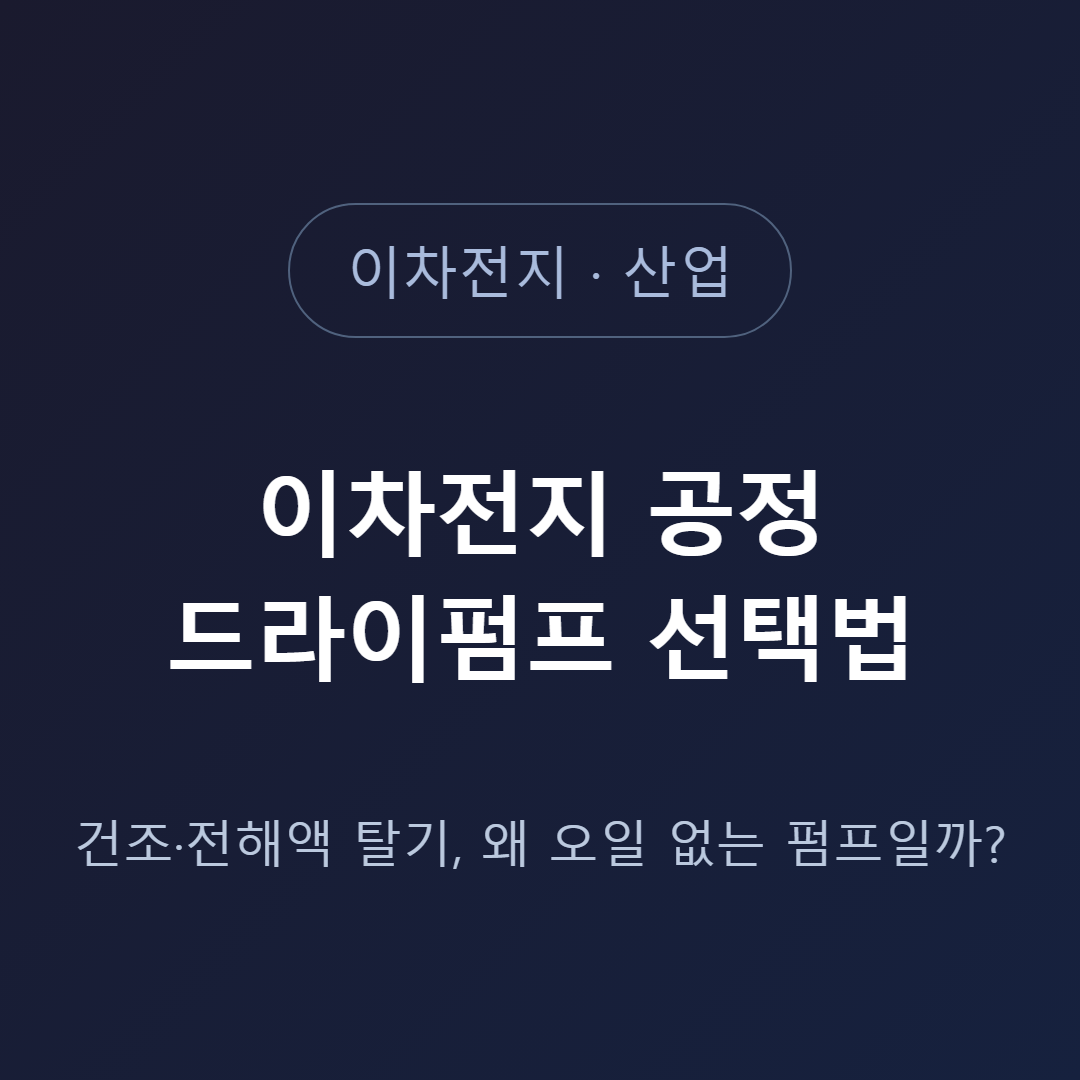
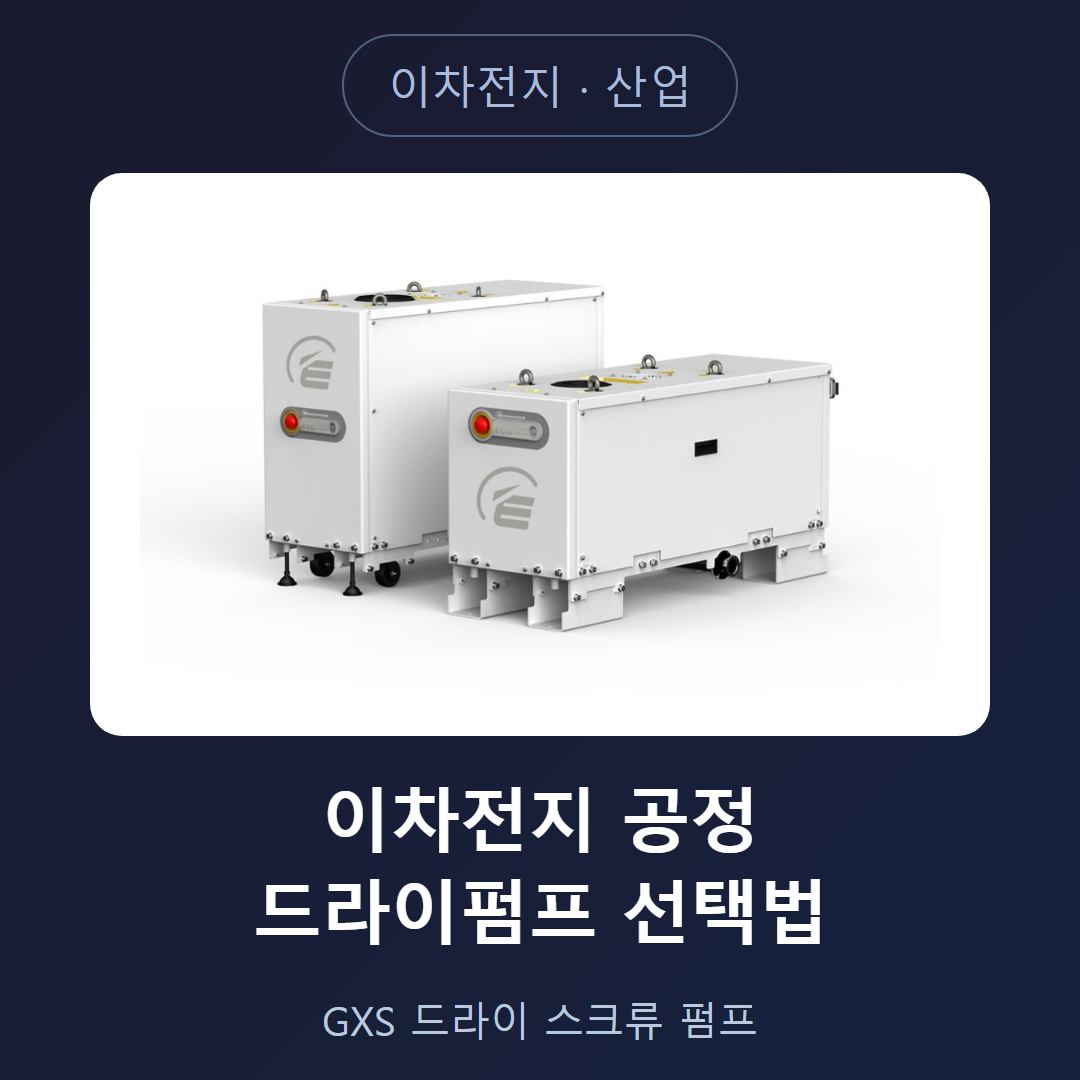
docs: 기존 3편 썸네일을 실제 Edwards 제품 사진으로 교체 (GXS·RV·APG)

diff --git a/블로그/output/기술블로그/2026-10/1008-펌프다운-지연원인/no-field-photo.md b/블로그/output/기술블로그/2026-10/1008-펌프다운-지연원인/no-field-photo.md
@@ -3,4 +3,5 @@
 - 작업일: 2026-09-23
 - 대상: 1008-펌프다운-지연원인
 - 펌프다운 진단 절차를 확인할 수 있는 미사용 스마텍 현장사진은 확인하지 못했습니다(`블로그/data/현장사진/` 폴더 비어 있음).
-- 대표 이미지와 본문 이미지 4장은 모두 HTML/CSS로 직접 그린 설명용 도식이며 실제 현장사진으로 소개하지 않습니다.
+- 썸네일은 본문에서 다루는 오일씰 로터리베인 펌프의 예시로 Edwards RV 시리즈 공식 제품 이미지(`public/images/products/rv.jpeg`)를 사용했습니다. 특정 고장 사례의 실제 촬영 사진은 아니며 제조사 제품 참고 이미지입니다.
+- 본문 이미지 4장은 HTML/CSS로 직접 그린 설명용 도식이며 실제 현장사진으로 소개하지 않습니다.

diff --git a/블로그/output/기술블로그/2026-10/1001-이차전지-드라이펌프/no-field-photo.md b/블로그/output/기술블로그/2026-10/1001-이차전지-드라이펌프/no-field-photo.md
@@ -3,4 +3,5 @@
 - 작업일: 2026-09-23
 - 대상: 1001-이차전지-드라이펌프
 - 이차전지 전해액 탈기·건조 공정을 확인할 수 있는 미사용 스마텍 현장사진은 확인하지 못했습니다(`블로그/data/현장사진/` 폴더 비어 있음).
-- 대표 이미지와 본문 이미지 4장은 모두 HTML/CSS로 직접 그린 설명용 도식이며 실제 현장사진으로 소개하지 않습니다.
+- 썸네일은 본문에서 실제로 언급한 Edwards GXS 드라이펌프 공식 제품 이미지(`public/images/products/gxs.jpeg`)를 사용했습니다. 스마텍이 촬영한 현장사진은 아니며 제조사 제품 참고 이미지입니다.
+- 본문 이미지 4장은 HTML/CSS로 직접 그린 설명용 도식이며 실제 현장사진으로 소개하지 않습니다.

diff --git a/블로그/output/기술블로그/2026-10/1015-수소설비-진공게이지/no-field-photo.md b/블로그/output/기술블로그/2026-10/1015-수소설비-진공게이지/no-field-photo.md
@@ -3,4 +3,5 @@
 - 작업일: 2026-09-23
 - 대상: 1015-수소설비-진공게이지
 - 수소 설비 진공게이지 관련 미사용 스마텍 현장사진은 확인하지 못했습니다(`블로그/data/현장사진/` 폴더 비어 있음).
-- 대표 이미지와 본문 이미지 3장은 모두 HTML/CSS로 직접 그린 설명용 도식이며 실제 현장사진으로 소개하지 않습니다.
+- 썸네일은 본문에서 실제로 언급한 스마텍 취급 APG200 계열 Edwards 진공게이지 공식 제품 이미지(`public/images/products/apg-new.png`)를 사용했습니다. 스마텍이 촬영한 현장사진은 아니며 제조사 제품 참고 이미지입니다.
+- 본문 이미지 3장은 HTML/CSS로 직접 그린 설명용 도식이며 실제 현장사진으로 소개하지 않습니다.
